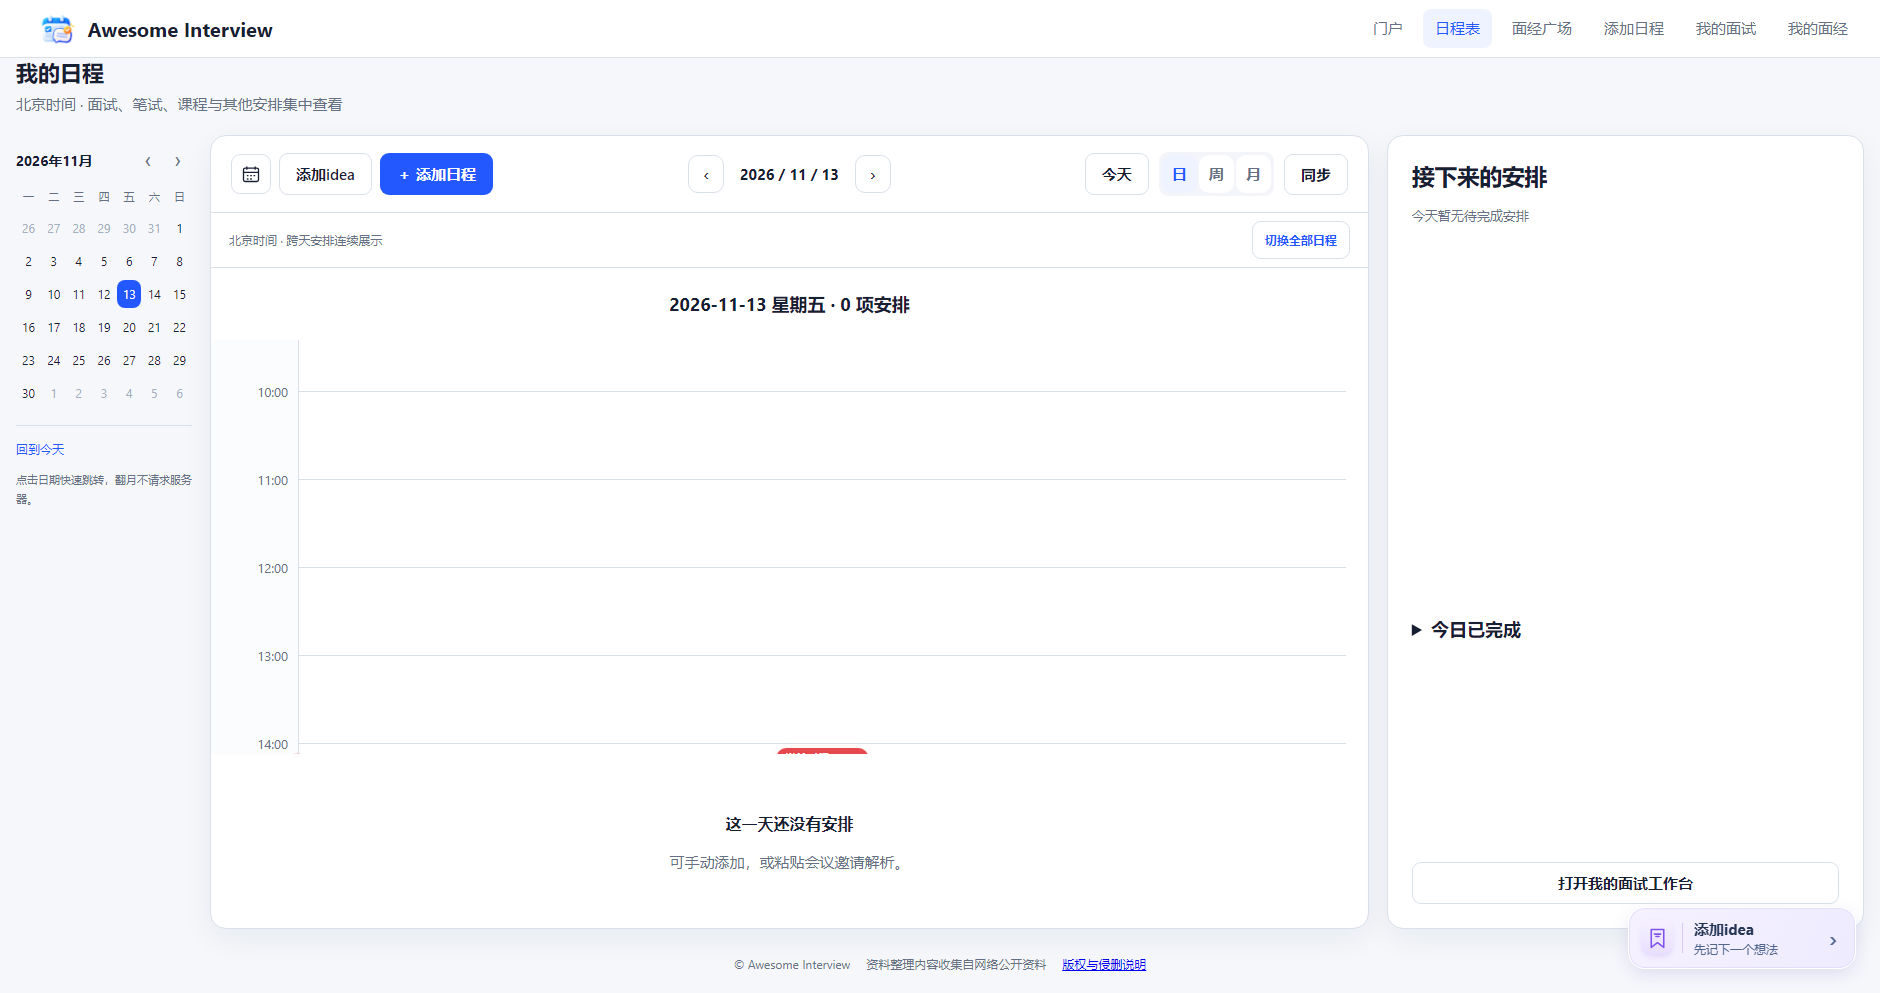
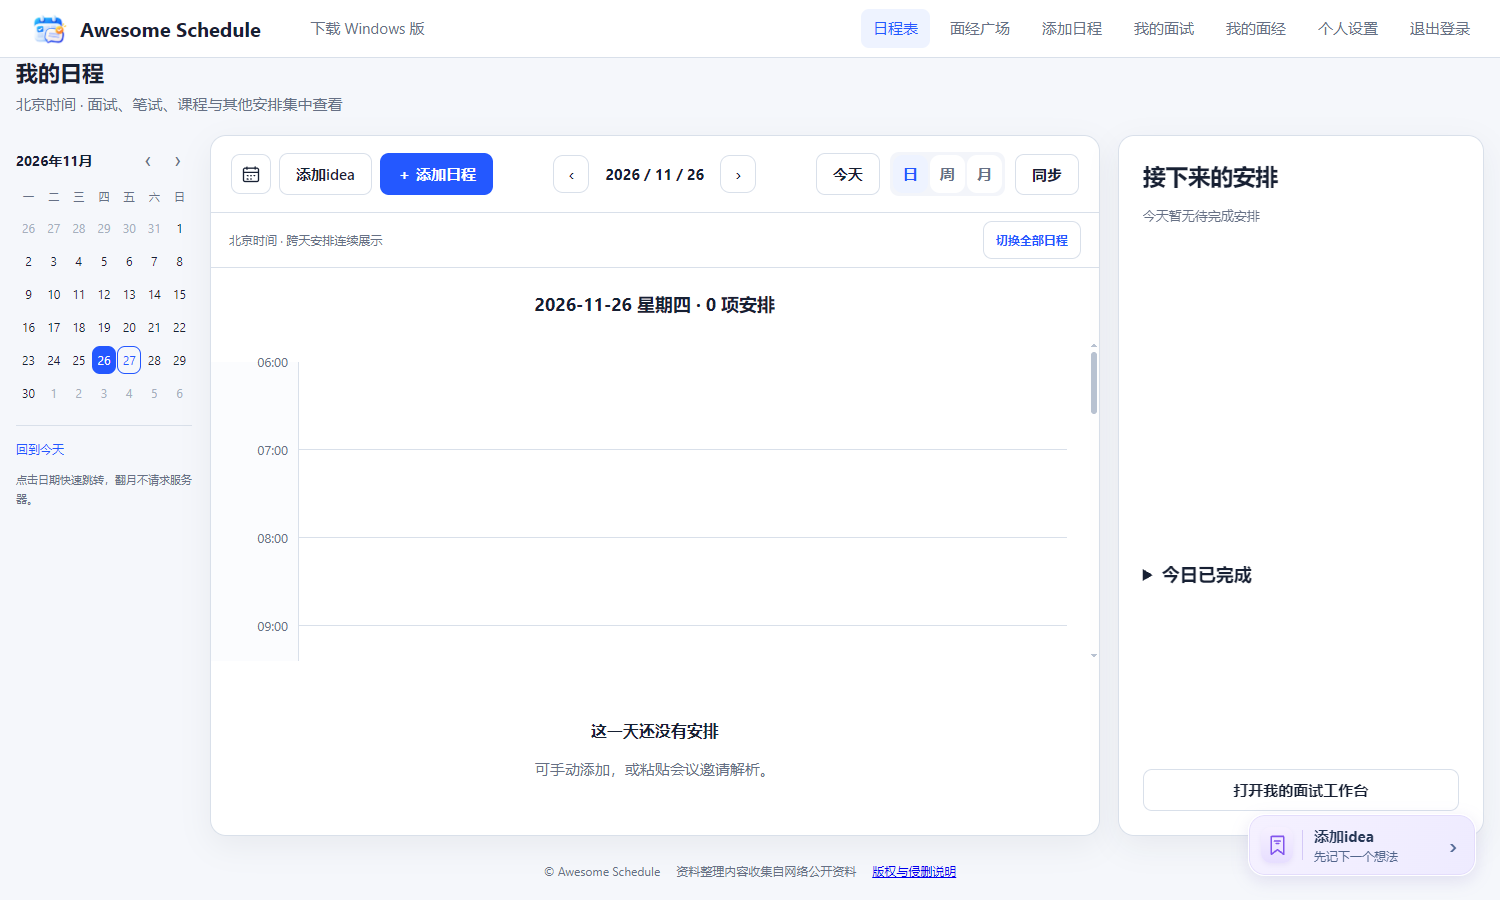
feat: rebrand the workspace as Awesome Schedule

diff --git a/windows/AwesomeInterview.Desktop/MainWindow.xaml b/windows/AwesomeInterview.Desktop/MainWindow.xaml
@@ -2,7 +2,7 @@
         xmlns="http://schemas.microsoft.com/winfx/2006/xaml/presentation"
         xmlns:x="http://schemas.microsoft.com/winfx/2006/xaml"
         xmlns:wv2="clr-namespace:Microsoft.Web.WebView2.Wpf;assembly=Microsoft.Web.WebView2.Wpf"
-        Title="Awesome Interview" Icon="Assets/app.ico" Width="1280" Height="820" MinWidth="800" MinHeight="560"
+        Title="Awesome Schedule" Icon="Assets/app.ico" Width="1280" Height="820" MinWidth="800" MinHeight="560"
         Background="#F3F6FC" WindowStartupLocation="CenterScreen">
   <Window.Resources>
     <Style x:Key="NavButton" TargetType="Button">
@@ -24,8 +24,9 @@
     <Border Grid.Column="0" Background="#16234A">
       <DockPanel>
         <StackPanel DockPanel.Dock="Top" Margin="18,24,18,14">
-          <Image Source="Assets/logo1.png" Width="178" Height="60" Stretch="Uniform" HorizontalAlignment="Left"/>
-          <TextBlock Text="面试与日程工作台" Foreground="#BFC9E8" FontSize="12"/>
+          <Image Source="Assets/logo2.png" Width="48" Height="48" HorizontalAlignment="Left"/>
+          <TextBlock Text="Awesome Schedule" Foreground="White" FontSize="17" FontWeight="SemiBold" Margin="0,6,0,4"/>
+          <TextBlock Text="个人日程工作台" Foreground="#BFC9E8" FontSize="12"/>
         </StackPanel>
         <StackPanel DockPanel.Dock="Bottom" Margin="14,0,14,18">
           <TextBlock x:Name="SyncLabel" Text="尚未同步" Foreground="#BFC9E8" TextWrapping="Wrap" FontSize="11" Margin="4,4,4,8"/>

diff --git a/app/templates/public_portal.html b/app/templates/public_portal.html
@@ -1,10 +1,10 @@
 {% extends "personal_base.html" %}
-{% block title %}Awesome Interview{% endblock %}
+{% block title %}Awesome Schedule{% endblock %}
 {% block navigation %}<nav class="page-nav"><a class="nav-link" href="/auth/login">登录</a>{% if request.app.state.settings.registration_mode != 'closed' %}<a class="nav-link" href="/auth/register">注册</a>{% endif %}</nav>{% endblock %}
 {% block content %}
 <section class="card personal-form-page">
-  <h1 class="section-title"><img class="portal-wordmark" src="{{ asset_url('img/logo1.png') }}" alt="Awesome Interview"></h1>
+  <h1 class="section-title">Awesome Schedule</h1>
   <p class="section-description">记录面经、浏览面经广场，也可安排面试和个人日程。</p>
-  <div class="settings-actions"><a class="btn" href="/auth/login">登录并进入面经广场</a>{% if request.app.state.settings.registration_mode != 'closed' %}<a class="btn secondary" href="/auth/register">创建账号</a>{% endif %}</div>
+  <div class="settings-actions"><a class="btn" href="/auth/login">登录并进入日程表</a>{% if request.app.state.settings.registration_mode != 'closed' %}<a class="btn secondary" href="/auth/register">创建账号</a>{% endif %}</div>
 </section>
 {% endblock %}

diff --git a/app/templates/personal_base.html b/app/templates/personal_base.html
@@ -1,5 +1,5 @@
 {% extends "base.html" %}
-{% block title %}Awesome Interview{% endblock %}
+{% block title %}Awesome Schedule{% endblock %}
 {% block body_class %}page-wide personal-app personal-scroll-page{% endblock %}
 {% block styles %}
 <link rel="stylesheet" href="{{ asset_url('css/interview-experience-card.css') }}">
@@ -7,8 +7,8 @@
 <link rel="stylesheet" href="{{ asset_url('css/interview-experience-plaza.css') }}">
 {% endblock %}
 {% block brand %}
-<a class="brand" href="/my-schedule/experiences/plaza" aria-label="Awesome Interview · 面经广场">
-  <img class="brand-logo" src="{{ asset_url('img/logo2.png') }}" alt="" width="38" height="38"><span>Awesome Interview</span>
+<a class="brand" href="/my-schedule/experiences/plaza" aria-label="Awesome Schedule · 面经广场">
+  <img class="brand-logo" src="{{ asset_url('img/logo2.png') }}" alt="" width="38" height="38"><span>Awesome Schedule</span>
 </a>
 {% endblock %}
 {% block scripts %}<script src="{{ asset_url('js/personal_navigation.js') }}" defer></script><script src="{{ asset_url('js/personal_page_cache.js') }}" defer></script><script src="{{ asset_url('js/interview_experience.js') }}" defer></script>{% endblock %}

diff --git a/app/templates/personal_detail.html b/app/templates/personal_detail.html
@@ -1,5 +1,5 @@
 {% extends "personal_base.html" %}
-{% block title %}{{ event.title if event else '日程' }} - Awesome Interview{% endblock %}
+{% block title %}{{ event.title if event else '日程' }} - Awesome Schedule{% endblock %}
 {% block content %}
 <section class="card personal-form-page">
   <div class="personal-toolbar"><div><span class="personal-type-pill">{{ event_labels[event.type] }}</span><h1 class="section-title">{{ event.title }}</h1></div><a class="btn secondary" href="/my-schedule">返回日程表</a></div>

diff --git a/app/templates/auth_page.html b/app/templates/auth_page.html
@@ -1,5 +1,5 @@
 {% extends "personal_base.html" %}
-{% block title %}{{ heading }} - Awesome Interview{% endblock %}
+{% block title %}{{ heading }} - Awesome Schedule{% endblock %}
 {% block navigation %}<nav class="page-nav"><a class="nav-link" href="/">首页</a>{% if mode != 'login' %}<a class="nav-link" href="/auth/login">登录</a>{% endif %}</nav>{% endblock %}
 {% block content %}
 <section class="card personal-form-page">

diff --git a/app/templates/personal_dashboard.html b/app/templates/personal_dashboard.html
@@ -1,5 +1,5 @@
 {% extends "personal_base.html" %}
-{% block title %}日程表 - Awesome Interview{% endblock %}
+{% block title %}日程表 - Awesome Schedule{% endblock %}
 {% block body_class %}page-wide personal-app personal-scroll-page personal-dashboard-page{% endblock %}
 {% block content %}
 <div class="personal-toolbar">

diff --git a/app/templates/interview_experience_plaza.html b/app/templates/interview_experience_plaza.html
@@ -1,5 +1,5 @@
 {% extends 'personal_base.html' %}
-{% block title %}面经广场 - Awesome Interview{% endblock %}
+{% block title %}面经广场 - Awesome Schedule{% endblock %}
 {% block main_class %}personal-experiences-main{% endblock %}
 {% block content %}
 <div class="experiences-page experience-plaza-page">

diff --git a/app/templates/personal_interviews.html b/app/templates/personal_interviews.html
@@ -1,5 +1,5 @@
 {% extends "personal_base.html" %}
-{% block title %}我的面试 - Awesome Interview{% endblock %}
+{% block title %}我的面试 - Awesome Schedule{% endblock %}
 {% block body_class %}page-wide personal-app{% endblock %}
 {% block main_class %}my-interviews-main{% endblock %}
 {% block content %}

diff --git a/app/templates/interview_experience_list.html b/app/templates/interview_experience_list.html
@@ -1,5 +1,5 @@
 {% extends 'personal_base.html' %}
-{% block title %}我的面经 - Awesome Interview{% endblock %}
+{% block title %}我的面经 - Awesome Schedule{% endblock %}
 {% block main_class %}personal-experiences-main{% endblock %}
 {% block content %}
 <div class="experiences-page">

diff --git a/app/templates/account_profile.html b/app/templates/account_profile.html
@@ -1,5 +1,5 @@
 {% extends 'personal_base.html' %}
-{% block title %}个人设置 - Awesome Interview{% endblock %}
+{% block title %}个人设置 - Awesome Schedule{% endblock %}
 {% block main_class %}account-profile-main{% endblock %}
 {% block content %}
 <div class="account-profile-page">

diff --git a/app/templates/personal_new.html b/app/templates/personal_new.html
@@ -1,5 +1,5 @@
 {% extends "personal_base.html" %}
-{% block title %}添加日程 - Awesome Interview{% endblock %}
+{% block title %}添加日程 - Awesome Schedule{% endblock %}
 {% block content %}
 <section class="card personal-form-page">
   <h1 class="section-title">添加日程</h1>

diff --git a/windows/AwesomeInterview.Desktop/MainWindow.xaml.cs b/windows/AwesomeInterview.Desktop/MainWindow.xaml.cs
@@ -57,7 +57,7 @@ public partial class MainWindow : Window
         _tray = new Forms.NotifyIcon
         {
             Icon = _appIcon,
-            Text = "Awesome Interview",
+            Text = "Awesome Schedule",
             Visible = true,
             ContextMenuStrip = new Forms.ContextMenuStrip()
         };
@@ -317,14 +317,14 @@ public partial class MainWindow : Window
                     if (!_notificationRegistered) throw new InvalidOperationException();
                     var notice = new AppNotificationBuilder()
                         .AddArgument("event_id", Value(item, "id"))
-                        .AddText("Awesome Interview 日程提醒")
+                        .AddText("Awesome Schedule 日程提醒")
                         .AddText("有一项日程即将开始，点击查看")
                         .BuildNotification();
                     AppNotificationManager.Default.Show(notice);
                 }
                 catch
                 {
-                    _tray.ShowBalloonTip(5000, "Awesome Interview", "有一项日程即将开始",
+                    _tray.ShowBalloonTip(5000, "Awesome Schedule", "有一项日程即将开始",
                         Forms.ToolTipIcon.Info);
                 }
             }
@@ -363,7 +363,7 @@ public partial class MainWindow : Window
         if (_reallyClose) return;
         args.Cancel = true;
         Hide();
-        _tray.ShowBalloonTip(2000, "Awesome Interview", "已在托盘保持运行和日程提醒", Forms.ToolTipIcon.Info);
+        _tray.ShowBalloonTip(2000, "Awesome Schedule", "已在托盘保持运行和日程提醒", Forms.ToolTipIcon.Info);
     }
 
     private void ExitApplication()
